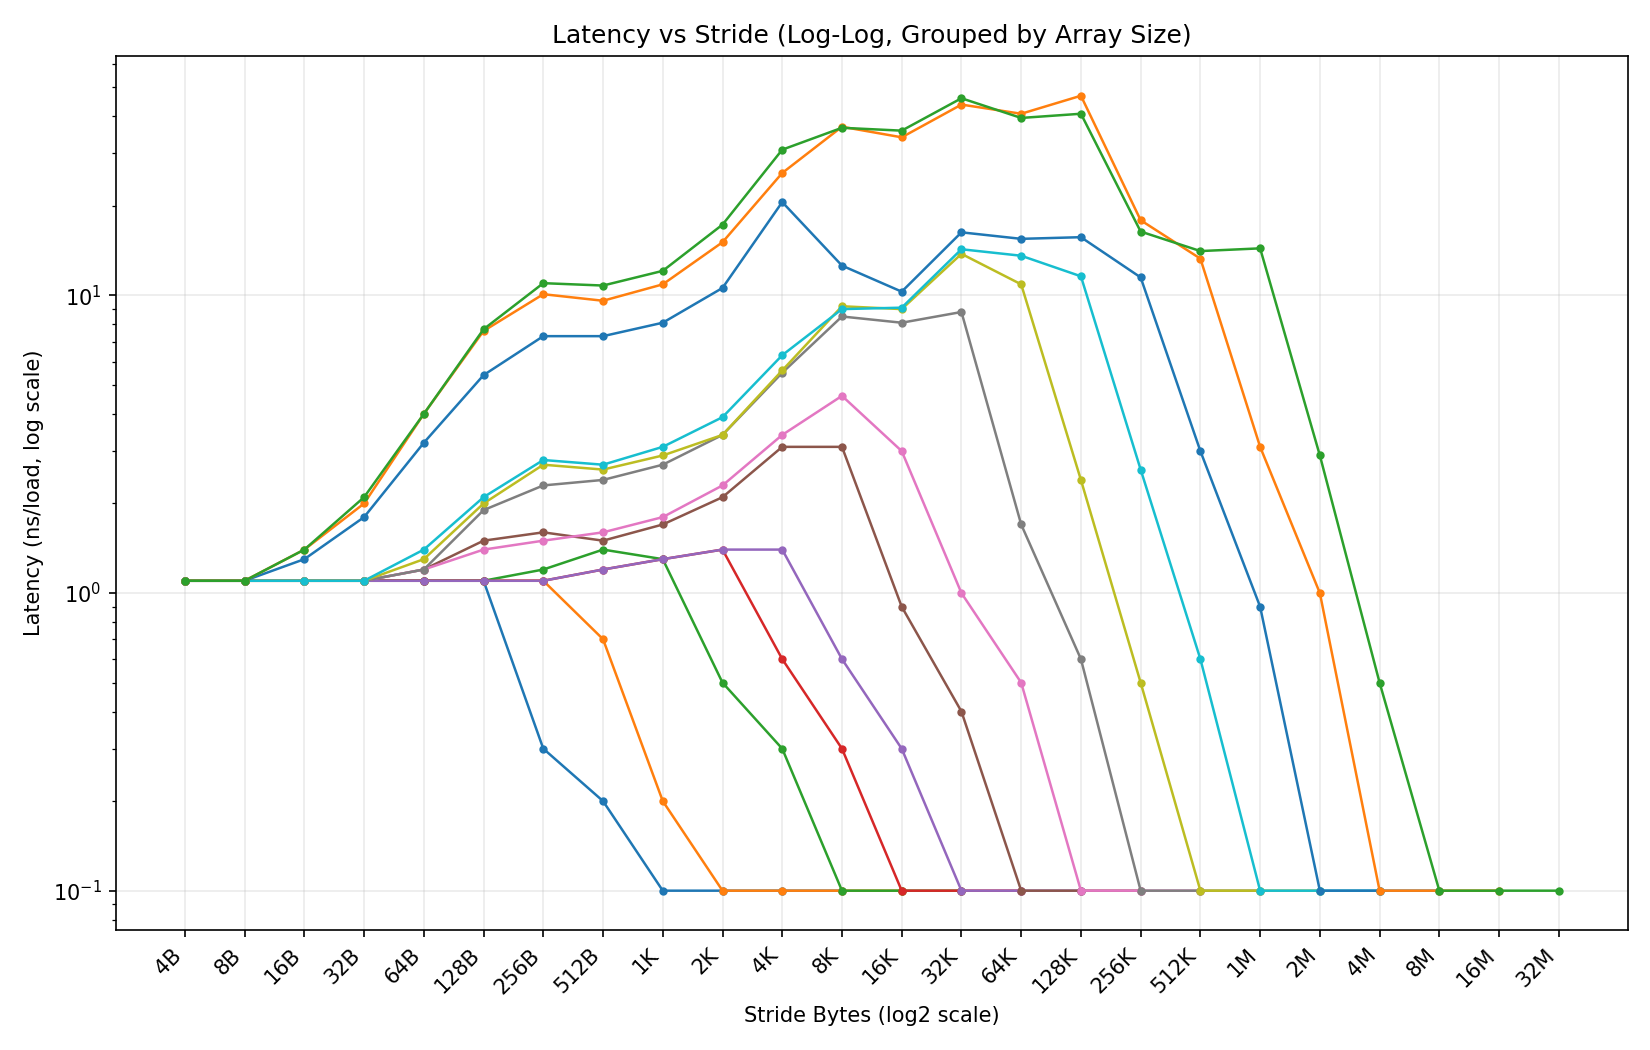
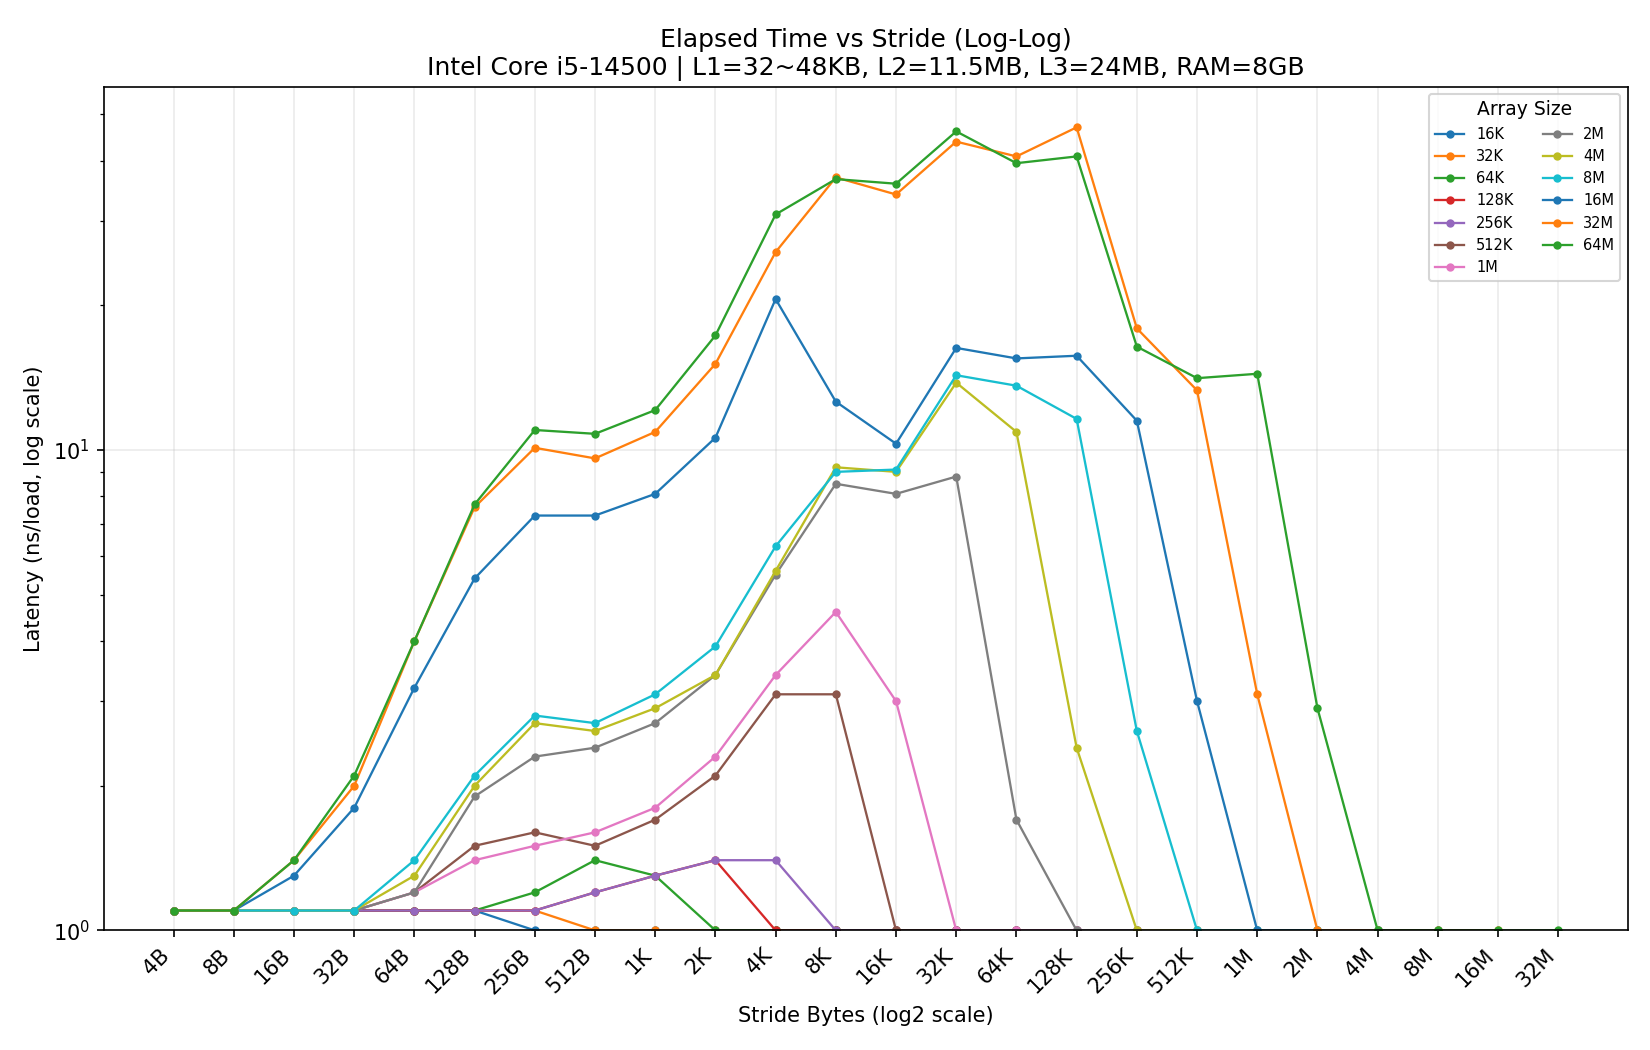
feat: enhance memory benchmark plotting with CPU and memory info, and improve y-axis readability

diff --git a/ComputerArchitecture/plot_memory_benchmark.py b/ComputerArchitecture/plot_memory_benchmark.py
@@ -6,6 +6,11 @@ from pathlib import Path
 import matplotlib.pyplot as plt
 
 
+DISPLAY_MIN_NS = 1.0
+CPU_INFO = "Intel Core i5-14500"
+MEM_INFO = "L1=32~48KB, L2=11.5MB, L3=24MB, RAM=8GB"
+
+
 def parse_size_token(token: str) -> int:
     """Convert labels like 512B, 16K, 24M, 1G to bytes."""
     token = token.strip().upper()
@@ -125,21 +130,29 @@ def plot_lines_by_array_size(stride_bytes, array_labels, matrix, out_path: Path)
     x = stride_bytes
 
     for row_label, y in zip(array_labels, matrix):
-        ax.plot(x, y, marker="o", linewidth=1.2, markersize=3, label=row_label)
+        # Clamp display floor to 1ns so the log-scale plot matches textbook-style readability.
+        ys = [max(vy, DISPLAY_MIN_NS) if math.isfinite(vy) else float("nan") for vy in y]
+        ax.plot(x, ys, marker="o", linewidth=1.1, markersize=3, label=row_label)
 
     ax.set_xscale("log", base=2)
     ax.set_yscale("log")
     ax.set_xlabel("Stride Bytes (log2 scale)")
     ax.set_ylabel("Latency (ns/load, log scale)")
-    ax.set_title("Latency vs Stride (Log-Log, Grouped by Array Size)")
+    ax.set_title(f"Elapsed Time vs Stride (Log-Log)\n{CPU_INFO} | {MEM_INFO}")
+    ax.set_ylim(bottom=DISPLAY_MIN_NS)
 
     # Keep readable tick labels on x-axis while using log2 spacing.
     ax.set_xticks(stride_bytes)
     ax.set_xticklabels([bytes_to_label(b) for b in stride_bytes], rotation=45, ha="right")
 
-    # Avoid unreadable legends with too many lines.
-    if len(array_labels) <= 12:
-        ax.legend(title="Array Size", fontsize=8)
+    ax.legend(
+        title="Array Size",
+        fontsize=7,
+        title_fontsize=9,
+        loc="upper right",
+        ncol=2,
+        frameon=True,
+    )
 
     ax.grid(True, alpha=0.25)
     fig.tight_layout()
